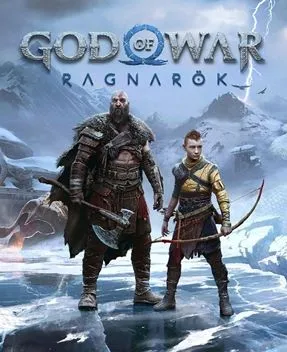
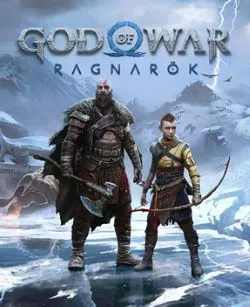
changed images to webp format

diff --git a/src/components/profile/dashboard-right/favourite-game/FavouriteGame.js b/src/components/profile/dashboard-right/favourite-game/FavouriteGame.js
@@ -1,11 +1,11 @@
 import Image from "next/image"
 import { GrGamepad } from "react-icons/gr"
 import { FiPlus } from "react-icons/fi"
-import eldenRing from "@/images/elden_ring.jpg"
-import godOfWarRagnarok from "@/images/god_of_war.jpg"
+import eldenRing from "@/images/elden_ring.webp"
+import godOfWarRagnarok from "@/images/god_of_war.webp"
 import callOfDuty from "@/images/call_of_duty.jpg"
-import tekken from "@/images/tekken_8.jpg"
-import playerUnknowns from "@/images/playerunknowns_battlegrounds.png"
+import tekken from "@/images/tekken_8.webp"
+import playerUnknowns from "@/images/playerunknowns_battlegrounds.webp"
 import profileStyles from "@/styles/profile/profile-page.module.css"
 import styles from './favourite-game.module.css'
 

diff --git a/src/components/profile/profile-bio/ProfileBio.js b/src/components/profile/profile-bio/ProfileBio.js
@@ -3,7 +3,7 @@ import { FaRegSave } from 'react-icons/fa'
 import { FiCamera, FiEdit3 } from 'react-icons/fi'
 import { IoLocationOutline } from 'react-icons/io5';
 import Image from 'next/image'
-import profileImageBig from "@/images/signed_in_user_big.jpeg" 
+import profileImageBig from "@/images/signed_in_user_big.webp" 
 import styles from './profile-bio.module.css'
 
 const UserProfileBio = () => {

diff --git a/src/components/profile/profile-header/ProfileHeader.js b/src/components/profile/profile-header/ProfileHeader.js
@@ -4,7 +4,7 @@ import Link from 'next/link';
 import { FiArrowLeft } from "react-icons/fi";
 import { MdKeyboardArrowRight } from "react-icons/md";
 import { CiSearch } from "react-icons/ci";
-import profileImageSmall from "@/images/signed_in_user_small.jpg"
+import profileImageSmall from "@/images/signed_in_user_small.webp"
 import styles from './header.module.css'
 
 const ProfileHeader = () => {

diff --git a/src/components/profile/profile-banner/Banner.js b/src/components/profile/profile-banner/Banner.js
@@ -1,4 +1,4 @@
-import profileBannerImage from "@/images/profile_image_bg.jpeg"
+import profileBannerImage from "@/images/profile_image_bg.webp"
 import { FiCamera } from 'react-icons/fi';
 import Image from 'next/image';
 import styles from './banner.module.css'
